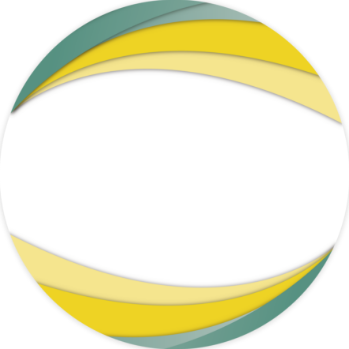
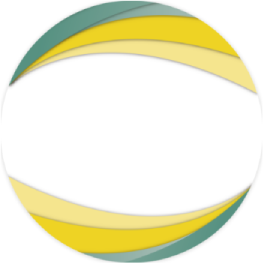
adaptation size of buble and number of displayed buble

diff --git a/src/components/display_messages/display_messages.scss b/src/components/display_messages/display_messages.scss
@@ -56,8 +56,8 @@ section#display_messages{
     .wrapper > div:nth-child(4){
       
         position: relative;
-        top: 560px;
-        left: -560px;
+        top: 600px;
+        left: -600px;
         text-align: center;
         -webkit-animation: fadein 2s; /* Safari, Chrome and Opera > 12.1 */
          -moz-animation: fadein 2s; /* Firefox < 16 */
@@ -70,6 +70,7 @@ section#display_messages{
       
         position: relative;
         top: 20px;
+        left: 200px;
         text-align: center;
         -webkit-animation: fadein 2s; /* Safari, Chrome and Opera > 12.1 */
          -moz-animation: fadein 2s; /* Firefox < 16 */
@@ -142,6 +143,107 @@ section#display_messages{
               animation: fadein 2s;
     
     }
+    .wrapper > div:nth-child(11){
+      position: relative;
+      top: -280px;
+      right: 200px;
+      text-align: center;
+      -webkit-animation: fadein 2s; /* Safari, Chrome and Opera > 12.1 */
+       -moz-animation: fadein 2s; /* Firefox < 16 */
+      -ms-animation: fadein 2s; /* Internet Explorer */
+         -o-animation: fadein 2s; /* Opera < 12.1 */
+            animation: fadein 2s;
+  }
+  .wrapper > div:nth-child(12){
+    position: relative;
+    top: -280px;
+    
+    text-align: center;
+    -webkit-animation: fadein 2s; /* Safari, Chrome and Opera > 12.1 */
+     -moz-animation: fadein 2s; /* Firefox < 16 */
+    -ms-animation: fadein 2s; /* Internet Explorer */
+       -o-animation: fadein 2s; /* Opera < 12.1 */
+          animation: fadein 2s;
+}
+.wrapper > div:nth-child(13){
+  position: relative;
+  right: 110px;
+  text-align: center;
+  -webkit-animation: fadein 2s; /* Safari, Chrome and Opera > 12.1 */
+   -moz-animation: fadein 2s; /* Firefox < 16 */
+  -ms-animation: fadein 2s; /* Internet Explorer */
+     -o-animation: fadein 2s; /* Opera < 12.1 */
+        animation: fadein 2s;
+}
+.wrapper > div:nth-child(14){
+  position: relative;
+ top: 400px;
+ right: 200px;
+  text-align: center;
+  -webkit-animation: fadein 2s; /* Safari, Chrome and Opera > 12.1 */
+   -moz-animation: fadein 2s; /* Firefox < 16 */
+  -ms-animation: fadein 2s; /* Internet Explorer */
+     -o-animation: fadein 2s; /* Opera < 12.1 */
+        animation: fadein 2s;
+}
+
+.wrapper > div:nth-child(15){
+  position: relative;
+top:150px;
+ right: 300px;
+  text-align: center;
+  -webkit-animation: fadein 2s; /* Safari, Chrome and Opera > 12.1 */
+   -moz-animation: fadein 2s; /* Firefox < 16 */
+  -ms-animation: fadein 2s; /* Internet Explorer */
+     -o-animation: fadein 2s; /* Opera < 12.1 */
+        animation: fadein 2s;
+}
+.wrapper > div:nth-child(16){
+  position: relative;
+top:10px;
+
+  text-align: center;
+  -webkit-animation: fadein 2s; /* Safari, Chrome and Opera > 12.1 */
+   -moz-animation: fadein 2s; /* Firefox < 16 */
+  -ms-animation: fadein 2s; /* Internet Explorer */
+     -o-animation: fadein 2s; /* Opera < 12.1 */
+        animation: fadein 2s;
+}
+
+.wrapper > div:nth-child(17){
+  position: relative;
+  top:240px;
+  left: 1500px;
+
+  text-align: center;
+  -webkit-animation: fadein 2s; /* Safari, Chrome and Opera > 12.1 */
+   -moz-animation: fadein 2s; /* Firefox < 16 */
+  -ms-animation: fadein 2s; /* Internet Explorer */
+     -o-animation: fadein 2s; /* Opera < 12.1 */
+        animation: fadein 2s;
+}
+.wrapper > div:nth-child(18){
+  position: relative;
+  right: 280px;
+  text-align: center;
+  -webkit-animation: fadein 2s; /* Safari, Chrome and Opera > 12.1 */
+   -moz-animation: fadein 2s; /* Firefox < 16 */
+  -ms-animation: fadein 2s; /* Internet Explorer */
+     -o-animation: fadein 2s; /* Opera < 12.1 */
+        animation: fadein 2s;
+}
+
+.wrapper > div:nth-child(19){
+  position: relative;
+  top: 100px;
+  right: 50px;
+  text-align: center;
+  -webkit-animation: fadein 2s; /* Safari, Chrome and Opera > 12.1 */
+   -moz-animation: fadein 2s; /* Firefox < 16 */
+  -ms-animation: fadein 2s; /* Internet Explorer */
+     -o-animation: fadein 2s; /* Opera < 12.1 */
+        animation: fadein 2s;
+}
 
     .fadeIn {
       -webkit-animation: fadein 2s; /* Safari, Chrome and Opera > 12.1 */

diff --git a/src/assets/css/styles.css b/src/assets/css/styles.css
@@ -50,12 +50,13 @@ body {
 
 .newMessage { 
   background: gold;
-  width: 349px; 
-  height: 349px;
+  width: 263px; 
+  height: 263px;
   /*border-radius: 50%;*/
   display: flex; /* or inline-flex */
   overflow-wrap:break-word;
   align-items: center; 
+  font-size: 14pt!important;
   justify-content: center;
   background: url(../../assets/img/2.png);
   background-repeat: no-repeat;
@@ -63,16 +64,15 @@ body {
 
 .oldMessage { 
   background: gold;
-  width: 214px; 
-  height: 214px;
+  width: 202px; 
+  height: 203px;
   /*border-radius: 50%;*/
   display: flex; /* or inline-flex */
   align-items: center; 
   justify-content: center;
   overflow-wrap:break-word;
-  font-size: 14pt!important;
-  color: black!important;
-  background: url(../../assets/img/4.png);
+  font-size: 10pt!important;
+  background: url(../../assets/img/3.png);
   background-repeat: no-repeat;
 }
 

diff --git a/src/components/display_messages/display_messages.ts b/src/components/display_messages/display_messages.ts
@@ -25,7 +25,7 @@ export class display_messages{
         this.allMessages.push(data);
         //this.all10Messages.push(data);
 
-        if (this.allMessages.length > 9){
+        if (this.allMessages.length > 19){
           const numberOfLastMessages = (this.allMessages.length % 10)+1;
           this.all10Messages = this.allMessages.slice((this.allMessages.length-numberOfLastMessages),(this.allMessages.length));
         }else{

diff --git a/src/components/add_messages/add_messages.ts b/src/components/add_messages/add_messages.ts
@@ -11,11 +11,9 @@ export class AddMessages{
 
   constructor(private router:Router){
     this.displayFrom =false;
-    console.log(this.displayFrom);
+    //console.log(this.displayFrom);
     //console.log(this.messageSent);
   }
-
-
    clickStart(){
     this.displayFrom=true;
     //console.log(this.displayFrom);
